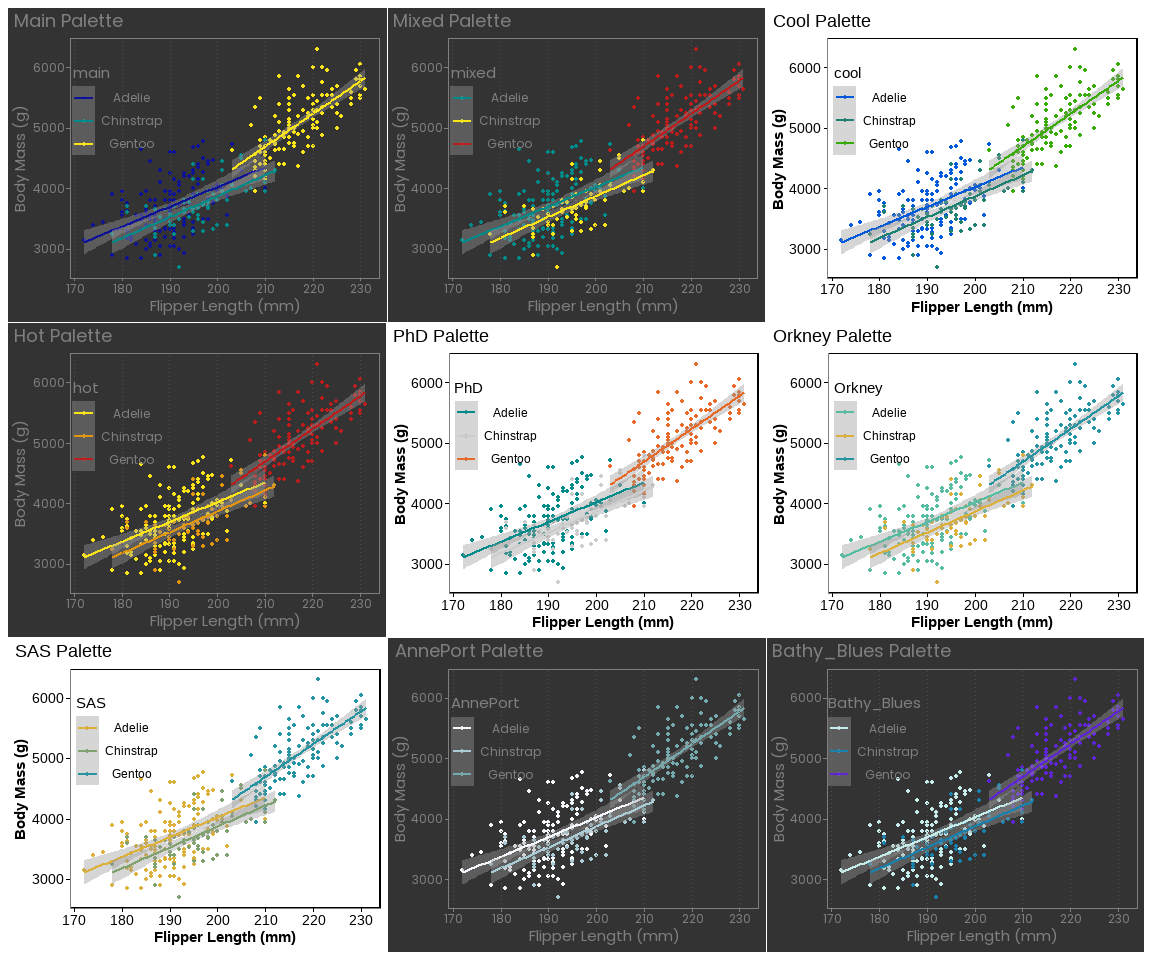
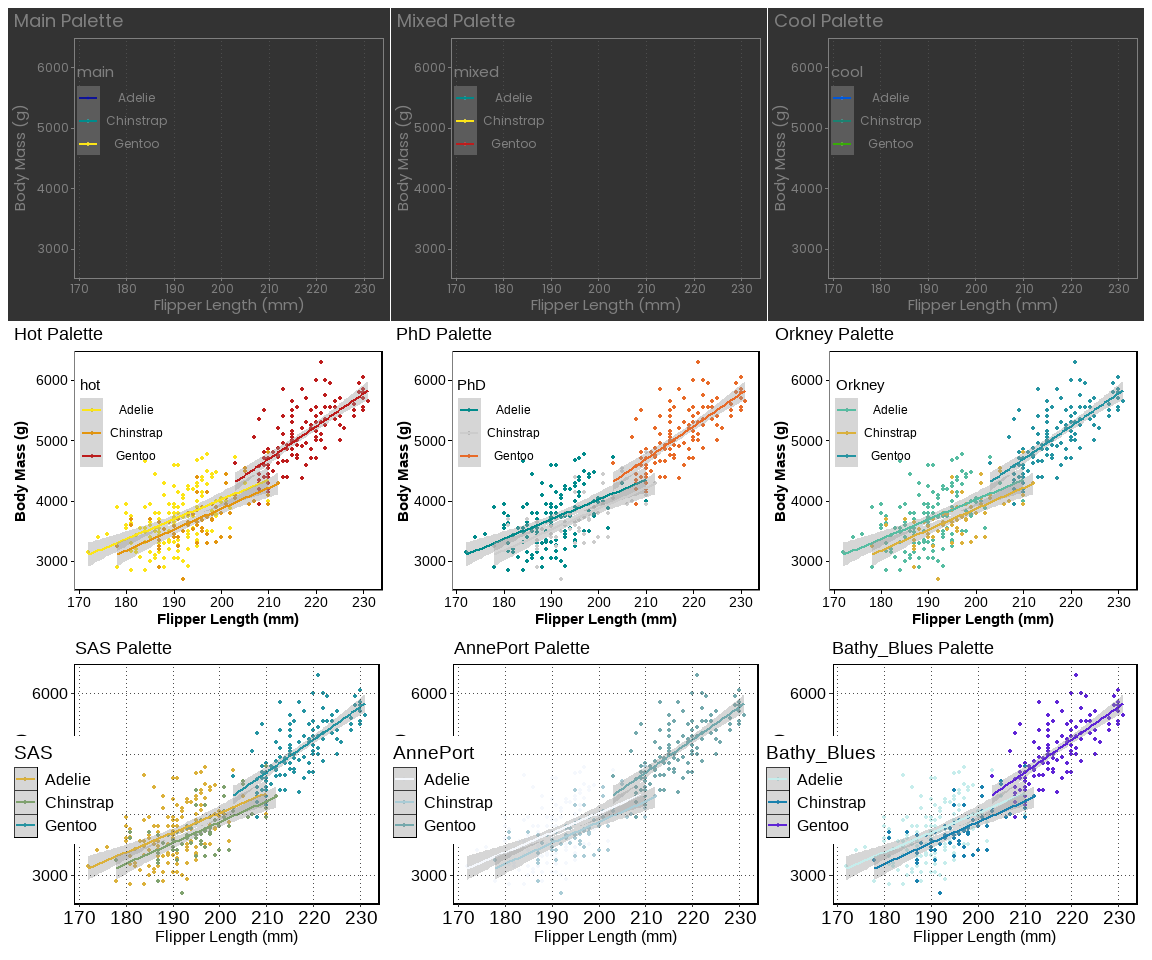
SORTING BACKGROUNDS AND LEGEND LOCATIONS

diff --git a/README.md b/README.md
@@ -154,7 +154,7 @@ ggplot(data = df2, aes(x = flipper_length_mm, y = body_mass_g)) +
   labs(x="Flipper Length (mm)",
        y="Body Mass (g)",
        colour="Species")+
-  theme_Mareta_Dark()
+  Utilities.Package::theme_Mareta_Dark()
 #> `geom_smooth()` using formula = 'y ~ x'
 ```
 
@@ -194,7 +194,7 @@ colourplot3<-ggplot(data = df2, aes(x = flipper_length_mm, y = body_mass_g)) +
        y="Body Mass (g)",
        colour="cool",
        title="Cool Palette")+
-  Utilities.Package::theme_Bede()+
+  Utilities.Package::theme_Mareta_Dark()+
   Utilities.Package::scale_colour_Bede("cool")
 
 colourplot4<-ggplot(data = df2, aes(x = flipper_length_mm, y = body_mass_g)) +
@@ -205,7 +205,7 @@ colourplot4<-ggplot(data = df2, aes(x = flipper_length_mm, y = body_mass_g)) +
        y="Body Mass (g)",
        colour="hot",
        title="Hot Palette")+
-  Utilities.Package::theme_Mareta_Dark()+
+  Utilities.Package::theme_Bede()+
   Utilities.Package::scale_colour_Bede("hot")
 
 colourplot5<-ggplot(data = df2, aes(x = flipper_length_mm, y = body_mass_g)) +
@@ -238,7 +238,7 @@ colourplot7<-ggplot(data = df2, aes(x = flipper_length_mm, y = body_mass_g)) +
        y="Body Mass (g)",
        colour="SAS",
        title="SAS Palette")+
-  Utilities.Package::theme_Bede()+
+  Utilities.Package::theme_Bede_Map()+
   Utilities.Package::scale_colour_Bede("SAS")
 
 colourplot8<-ggplot(data = df2, aes(x = flipper_length_mm, y = body_mass_g)) +
@@ -249,7 +249,7 @@ colourplot8<-ggplot(data = df2, aes(x = flipper_length_mm, y = body_mass_g)) +
        y="Body Mass (g)",
        colour="AnnePort",
        title="AnnePort Palette")+
-  Utilities.Package::theme_Mareta_Dark()+
+  Utilities.Package::theme_Bede_Map()+
   Utilities.Package::scale_colour_Bede("AnnePort")
 
 colourplot9<-ggplot(data = df2, aes(x = flipper_length_mm, y = body_mass_g)) +
@@ -260,7 +260,7 @@ colourplot9<-ggplot(data = df2, aes(x = flipper_length_mm, y = body_mass_g)) +
        y="Body Mass (g)",
        colour="Bathy_Blues",
        title="Bathy_Blues Palette")+
-  Utilities.Package::theme_Mareta_Dark()+
+  Utilities.Package::theme_Bede_Map()+
   Utilities.Package::scale_colour_Bede("Bathy_Blues")
 
   (colourplot1+colourplot2+colourplot3)/